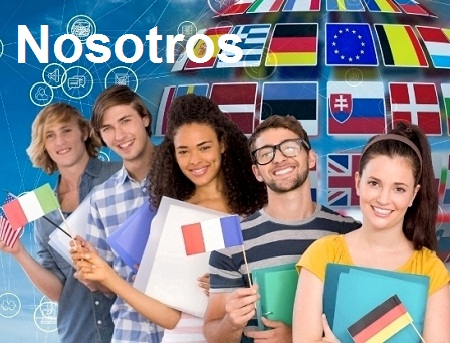
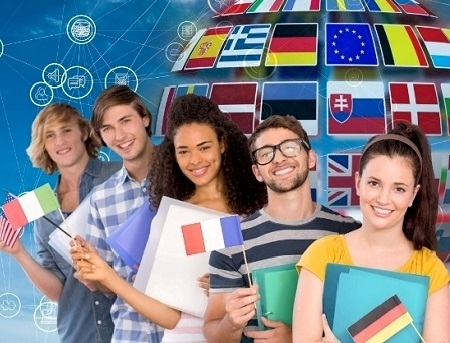
subir

Changed region(s): [[0.0311, 0.0583, 0.56, 0.2041]]

diff --git a/src/view/joinus/Joinus.jsx b/src/view/joinus/Joinus.jsx
@@ -16,200 +16,186 @@ import tabla1 from "../../assets/contenido/tabla1.png";
 export default function Joinus() {
   return (
     <div className="contenedor_joinus">
-    <nav className="navbar navbar-light mb-5" id="encabezado">
-                <Link to="/" className="container-fluid">
-                    <img
-                    src={logoblanco}
-                    width="290"
-                    height="550"
-                    className="img-fluid d-block mx-auto"
-                    alt='logoMingga'
-                    />
-                </Link>
-            </nav>
-            <div className="container-fluid" align="left" id="padding">
+        <nav className="navbar navbar-light mb-5" id="encabezado">
+                    <Link to="/" className="container-fluid">
+                        <img
+                        src={logoblanco}
+                        width="290"
+                        height="550"
+                        className="img-fluid d-block mx-auto"
+                        alt='logoMingga'
+                        />
+                    </Link>
+                </nav>
+                <div className="container-fluid" align="left" id="padding">
 
-            <h3 id="titulo" align="center"> <b>LEO FRIENDS PLAN:<br />
+                <h3 id="titulo" align="center"> <b>FRIENDS PLAN:<br />
 
-             <h5>Help us grow, and build a lifetime income</h5>
+            <h5>Help us grow, and receive benefits to achieve your academic excellence</h5>
 
-             </b>
-             </h3>
-
-          <br />
-          <div >
-            <img
-            className="d-block w-100"
-            src={afiliados1}
-            height="250"
-            alt="..."
-            />
-            </div>
+            </b> 
+            </h3>
 
             <br />
+            <div   align="center">
+                <img 
+                id="imagenajustada"
+                className="d-block w-100"
+                src={afiliados1}
+                height="250"
+                alt="..."
+                />
+                </div>
 
-           <p>
-              <b>LEO World Reading Club</b>'s mission is to improve the educational and cultural level of people to strengthen their communication skills and increase their chances of academic, work and social success.
-              </p>
-              <p>
-              <b>LEO</b> is financed by the annual fee of $50,000 that members pay, which allows us to access programs and services to promote reading, writing and multilingualism for an entire year, without having to make any additional payment. . . </p>
-              <p>
-              For this reason, <b>LEO</b> needs to grow around the world, and to achieve this, it has created the <b>Friends Plan</b>, a Referral Program that calls on its partners to support this growth. . , doing a very simple job: <b>Invite friends to join as partners, with a maximum of 20 guests.</b></p>
-              <p>
-              With this simple work, each partner will be able to organize their own <b>RPA Personal Network of Friends</b>, and <b>LEO</b> will provide them with an income (cashback) that can be very important and permanent.
-              </p>
+                <br />
+
+            <p>
+            In order to fulfill the mission of promoting reading among students in our country and around the world, LEO needs to grow, consolidating a large work community focused on academic excellence.
+            </p>
+            <p>
+            The Friends Plan is an invitation from <b>LEO</b> to its members to support this growth by doing a very simple and easy job: Invite friends and fellow students to join as members, with a maximum of 20 guests.
+            </p>
+            <p>
+            For this simple job that we can all do in a short time, <b>LEO</b> recognizes us for important benefits that will allow us to improve our academic performance and have the resources to finance our studies.           
+            </p>
+            <br />
+            <h3 id="titulo" align="center"> <b>Basic principles of the Leo Friends Plan
+            </b> 
+            </h3>
+            <br />
+            <p>
+            • Participation is free and voluntary. A member may not participate and still enjoy the programs to promote reading, writing and multilingualism offered by ClubLeo. <br />
+            • Any student of the different levels may be invited. There are no different requirements or preconditions. <br />
+            • Members may reside in any country in the world. <br />
+            • Withdrawal is free, at any time, without any requirements. <br />
+
+            </p>
+
+            <h3 id="titulo" align="center"> <b>How the LEO Friends Plan works</b> </h3>
+            <br />
+            <h4 id="titulo" align="center"> <b>The principle is simple: invite, and get benefits for our academic activity
+            </b> </h4>
+
+            <br />
+            <p>
+
+            1. When joining, each member creates their username and password; the program automatically creates “My Account” for them to track their guests and benefits in real time. <br />
+
+            2. The member invites their friends and colleagues to enter <b>LEO</b>, sending them the link to their social networks, or providing them with their username. <br />
+
+            3. When joining, the guests register their username; and the system links them with the member who invited them for the recognition of the benefits of academic excellence. <br />
+
+            4. The system accumulates in your account the members that you invite, until completing the 20 requested. Afterwards, the list is closed and you will not be able to continue inviting more people. <br />  
+
+            5. In the first step of invitation, when completing the 20 guests, you will receive a notification of delivery of a 10” Tablet, with the bibliomobil digital library and its 15,000 works recorded. <br />  
+
+            6. In the second step, when your 20 guests each complete their 20 guests, you will receive a laptop computer, which will also have the bibliomobil digital library and its 15,000 works recorded. <br />  
+
+            7. Finally, in the third step, when the new members invite their 20 friends, you will receive the educational bonus for academic excellence for $2 million per month, which will be deposited in the financial account that you report to <b>LEO</b>. This bonus will be permanent as long as you maintain student status.
+
+
+            </p>
             
-              <br />
-              <h3 id="titulo" align="center"> <b>Basic principles of the Leo Friends Plan
-              </b>
-              </h3>
-              <br />
-              <p>
-              • Member participation is free and voluntary. A member can not participate, and continue enjoying the programs to promote reading, writing and multilingualism.
-              </p>
-              <p>
-              • Any institution and anyone over 14 years old can be invited. There are no different requirements or preconditions.
-              </p>
-              <p>
-              • Friends can reside in any country in the world.
-              </p>
-              <p>
-              • For each guest that joins as a member, and those that they in turn invite, <b>LEO</b> recognizes a % of the membership fee (up to 60%).
-              </p>
-              <p>
-              • The Personal Network of Friends that you organize is the property of the member for life, with his or her income and benefits.
-              </p>
-              <p>
-              • RPA is heritable. Once the 20 guests are complete, the member may designate the person who will replace him or her in the event of death.
-              </p>
-              <p>
-              • Free and voluntary withdrawal, at any time, without any requirements.
-              </p>
-              <br />
-          <div>
-            <img
-            className="d-block w-100"
-            src={afiliados2}
-            height="450"            
-            alt="..."
-            />
-            </div>
-          <br />
-          <h3 id="titulo" align="center"> <b>How the LEO Friends Plan works <br />
-
-          The principle is simple: invite, and obtain increasing income, for life
-
-          </b>
-          </h3>
-          <br />
-          <p>
-          • By joining by filling out the form online, each member creates their username and password; The program automatically creates “My Account” so you can track your guests and income in real time. </p>
-          <p>
-          • The partner invites other people to join <b>LEO</b>, and when filling out the form, they register the username of the promoting partner; The system links them into your personal network of RPA friends, for life. </p>
-          <p>
-          • The system automatically distributes 60% of the value of the membership fee ($30,000) between the new member's RPA. This income accumulates in real time in your Personal Account, and at the end of the month it is transferred to your financial account. During the month, with his or her income, the member was able to purchase the books, goods and services offered by LEO allies. </p>
-          <br />
-          <h3 id="titulo" align="center"> <b>How much can I earn if I organize my RPA?<br />
-          </b>
-          </h3>
-          <br />
-          <p>
-          Of the $50,000 membership fee, <b>LEO</b> allocates 60% ($30,000) to remunerate the invitation work carried out by its members, an income that will grow successively with the new guests, generating a very important annual income. as detailed in the following table: </p>
 
 
-          <br />
-          <div className="imagenesTam">
-            <img
-            className="d-block w-100"
-            src={tabla}
-            width="400"
-            alt="..."
-            />
-            </div>
             <br />
-                 <p>
-                 This will be the result of my work: Once I organize my b <b>RPA</b>, I will be able to have an annual income of $1.5 billion, which will be for life, because <b>LEO</b> recognizes both the income as annual renewals.
-                 </p>
-                 <p>
-                 An easy, simple and quick job to achieve a great goal: <b>economic independence, for life.</b>
-                 </p>
-                 <p>
-                 <b>How to achieve it?</b>
-                 </p>
-                 <p>
-                 You just have to do 2 very simple things: <br />
-                 <b> 1. Invite my 20 friends to join ClubLeo</b> (relatives, neighbors, study and work colleagues, contacts on social networks, educational and social institutions, etc.) <br />
-                 <b>2. Track and support my RPA,</b> taking advantage of the internet. There are simple, free and effective techniques: <br />
-                 • Create my own group on Facebook and WhatsApp with my 20 guests. <br />
-                 • Create and send motivational messages to my RPA partners. <br />
-                 </p>
-                 <p>
-                 <b> The Amigos Plan is conceived as a win-win strategic alliance: LEO</b> grows around the world and has the resources to develop its educational and cultural programs, and partners can ensure an important income, therefore life.
-                 </p>
-
-                 <br />
-             <h3 id="titulo" align="center"> <b>Why the Amigos Plan?<br />
-             </b>
-             </h3>
-             <br />
-             <p>
-             <b> The most important economic phenomenon of the 21st century is social networks on the Internet, </b> which in a few years are present in all countries with billions of users, becoming the most valuable and profitable companies (this year Twitter was sold for US$44 billion, while Facebook is valued at US$226 billion). According to figures from Smart Insights, in 2022 58.4% of the world's population uses social networks (4,062 million people). </p>
-             <h5 id="titulo" align="center"> <b>How do social networks grow? What strategy do you use to reach everyone?<br />
-             </b>
-             </h5>
-                 <br />
-                 <p>
-                 Is simple. It's called the <b><a href="https://www.tiempo.com/noticias/ciencia/el-mundo-es-un-panuelo-conoce-la-teoria-de-los-6-grados-de-separacion.html#:~:text=Se%20cree%20que%20cada%20persona%20conoce%20en%20promedio%20a%20unas%20100%20personas.&text=La%20teor%C3%ADa%20de%20los%206%20grados%">theory of six degrees of separation</a></b>: indicates that we are all connected to every other person on the planet through a chain with only 6 links. According to statistics, each person knows on average 100 people, so with just 6 links or integration steps, all of humanity can be connected. And this is possible thanks to the internet, in real time. </p>
-                 <br />
-             <div>
-            <img
-            className="d-block w-100"
-            src={afiliados3}
-            height="450"
-            alt="..."
-            />
-            </div>
-
+            <h3 id="titulo" align="center"> <b>The LEO Challenge: Additional Benefit for Committed Partners<br />
+            </b> 
+            </h3>
             <br />
             <p>
-                 Taking advantage of this successful experience, the <b>LEO Friends Plan</b> is conceived as a <b>global social network</b>, educational, cultural and business, where members can invite people from all over the world to connect through the Internet, and obtain a participation for each new member, building an accumulated income that guarantees their economic independence, for life.
-                 </p>
-             <h3 id="titulo" align="center"> <b>LEO Target Market. Potential partners<br />
-             </b>
-             </h3>
-             <br />
-             <p>
-             <b>Bibliomobil</b>, the <b>LEO</b> Family Digital Library offers its members more than 15,000 works in 5 languages, used in more than 100 countries around the world (Annex), with a population of 1.9 billion people, with 1.5 billion over 14 years of age with reading ability and 380 million primary and secondary students.
-                 </p>
-          <div className="imagenesTam">
-            <img
-            className="d-block w-100"
-            src={tabla1}
-            height="250"
-            alt="..."
-            />
-            </div>
+            If a partner manages to recruit their 20 guests within a month of joining LEO, they will receive a great additional incentive: the educational bonus for academic excellence will be $4 million per month, enough to finance even university studies.            </p>
+
+            <h3 id="titulo" align="center"> <b>LEO Target Market. Potential Partners<br />
+            </b> 
+            </h3>
+
+            <div   align="center">
+                <img 
+                id="imagenajustada"
+                className="d-block w-100"
+                src={afiliados2}
+                height="250"
+                alt="..."
+                />
+                </div>
             <br />
             <p>
-                 <b>LEO</b>'s priority is the 380 million students and their families in different countries, for whom reading and writing are routine activities associated with the academic training process, and strengthening their communication skills is key. for the success of the educational process. With the annual membership of $50,000, each member accesses the downloadable digital library with 15,000 works in 5 languages, valued at more than CO$150 mills, US$40,000. </p>
-                 <br />
-                 <h4 id="titulo" align="center"> <b> <h2> <b>Friends Plan</b></h2>
-                 A valuable opportunity to build financial independence, for life <br />
-                 With a simple, easy and fast job, that we can all do
-                 </b>
+            <b>Bibliomobil</b>, LEO's Digital Library, offers its members more than 15,000 works in 5 languages, used in more than 100 countries around the world (Annex), with a population of 1.9 billion people, with 1.5 billion over 14 years of age with reading ability and 380 million primary and secondary school students.
+            </p>
+        
+            
+            <table className="table_1" align="center"> 
+                <tr className="table_2" align="center" >
+                    <th className="table_3" align="center">Language</th>
+                    <th className="table_3" align="center">Number of works</th>
+                    <th className="table_3" align="center">Native speakers</th>
+                    <th className="table_3" align="center">Age 14+</th>
+                    <th className="table_3" align="center">Students</th>
+                </tr>
+                <tr className="table_2">
+                    <td className="table_4" align="center">Spanish</td>
+                    <td className="table_4" align="center">8.169</td>
+                    <td className="table_4" align="center">580</td>
+                    <td className="table_4" align="center">464</td>
+                    <td className="table_4" align="center">116</td>
+                </tr>
+                <tr className="table_2">
+                    <td className="table_4" align="center">English</td>
+                    <td className="table_4" align="center">5.013</td>
+                    <td className="table_4" align="center">678</td>
+                    <td className="table_4" align="center">542</td>
+                    <td className="table_4" align="center">136</td>
+                </tr>
+                <tr className="table_2">
+                    <td className="table_4" align="center">French</td>
+                    <td className="table_4" align="center">711</td>
+                    <td className="table_4" align="center">300</td>
+                    <td className="table_4" align="center">240</td>
+                    <td className="table_4" align="center">60</td>
+                </tr>
+                <tr className="table_2">
+                    <td className="table_4" align="center">Italian</td>
+                    <td className="table_4" align="center">607</td>
+                    <td className="table_4" align="center">85</td>
+                    <td className="table_4" align="center">68</td>
+                    <td className="table_4" align="center">17</td>
+                </tr>
+                <tr className="table_2">
+                    <td className="table_4" align="center">Portuguese</td>
+                    <td className="table_4" align="center">614</td>
+                    <td className="table_4" align="center">260</td>
+                    <td className="table_4" align="center">208</td>
+                    <td className="table_4" align="center">52</td>
+                </tr>
+                <tr className="table_2">
+                    <td className="table_4" align="center"> <b>Totals </b></td>
+                    <td className="table_4" align="center"><b>15.114</b></td>
+                    <td className="table_4" align="center"> <b>1.903</b></td>
+                    <td className="table_4" align="center"> <b>1.522</b></td>
+                    <td className="table_4" align="center"> <b>381</b> </td>
+                </tr>
+
+
+                </table>
+                <br />
+                <p>Although anyone can become a member, LEO's priority is the 380 million students and their families in different countries, for whom reading and writing are routine activities associated with the academic training process, and strengthening their communication skills is key to the success of the educational process. With the annual membership of $50,000, each member has access to the downloadable digital library with 15,000 works in 5 languages, valued at more than US$40,000.</p>
+
+
+
+                <br />
+            <h2 id="titulo" align="center"> <b>Friends Plan<br />
+            </b> 
+            </h2>
+            <br />
+            <h4 id="titulo" align="center"> <b>A valuable opportunity to ensure excellence in our studies<br />
+            </b> 
             </h4>
-            <br />
-
-
-
-              
-              
-
-
-              </div>
- 
-          
-              
+           <br />
+        </div>
     </div>
+    
+          
+                 
   );
 }
